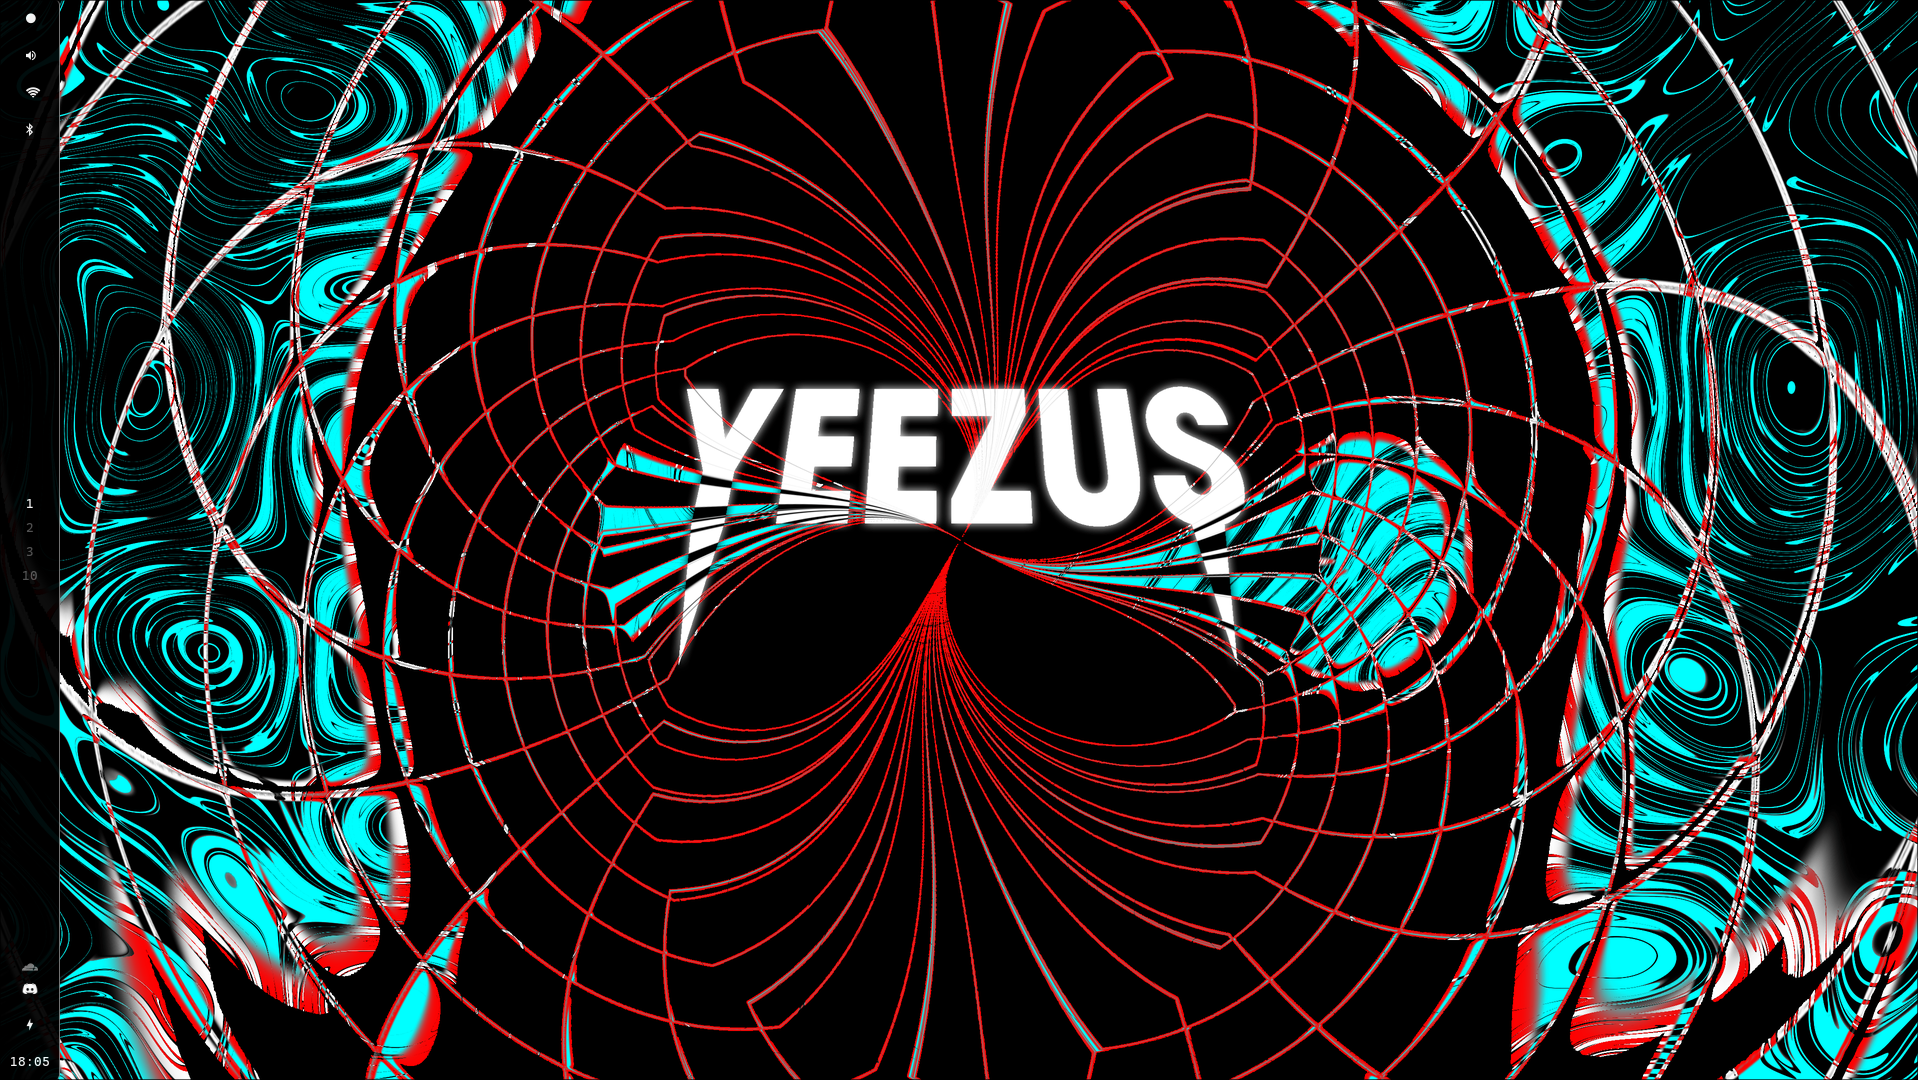
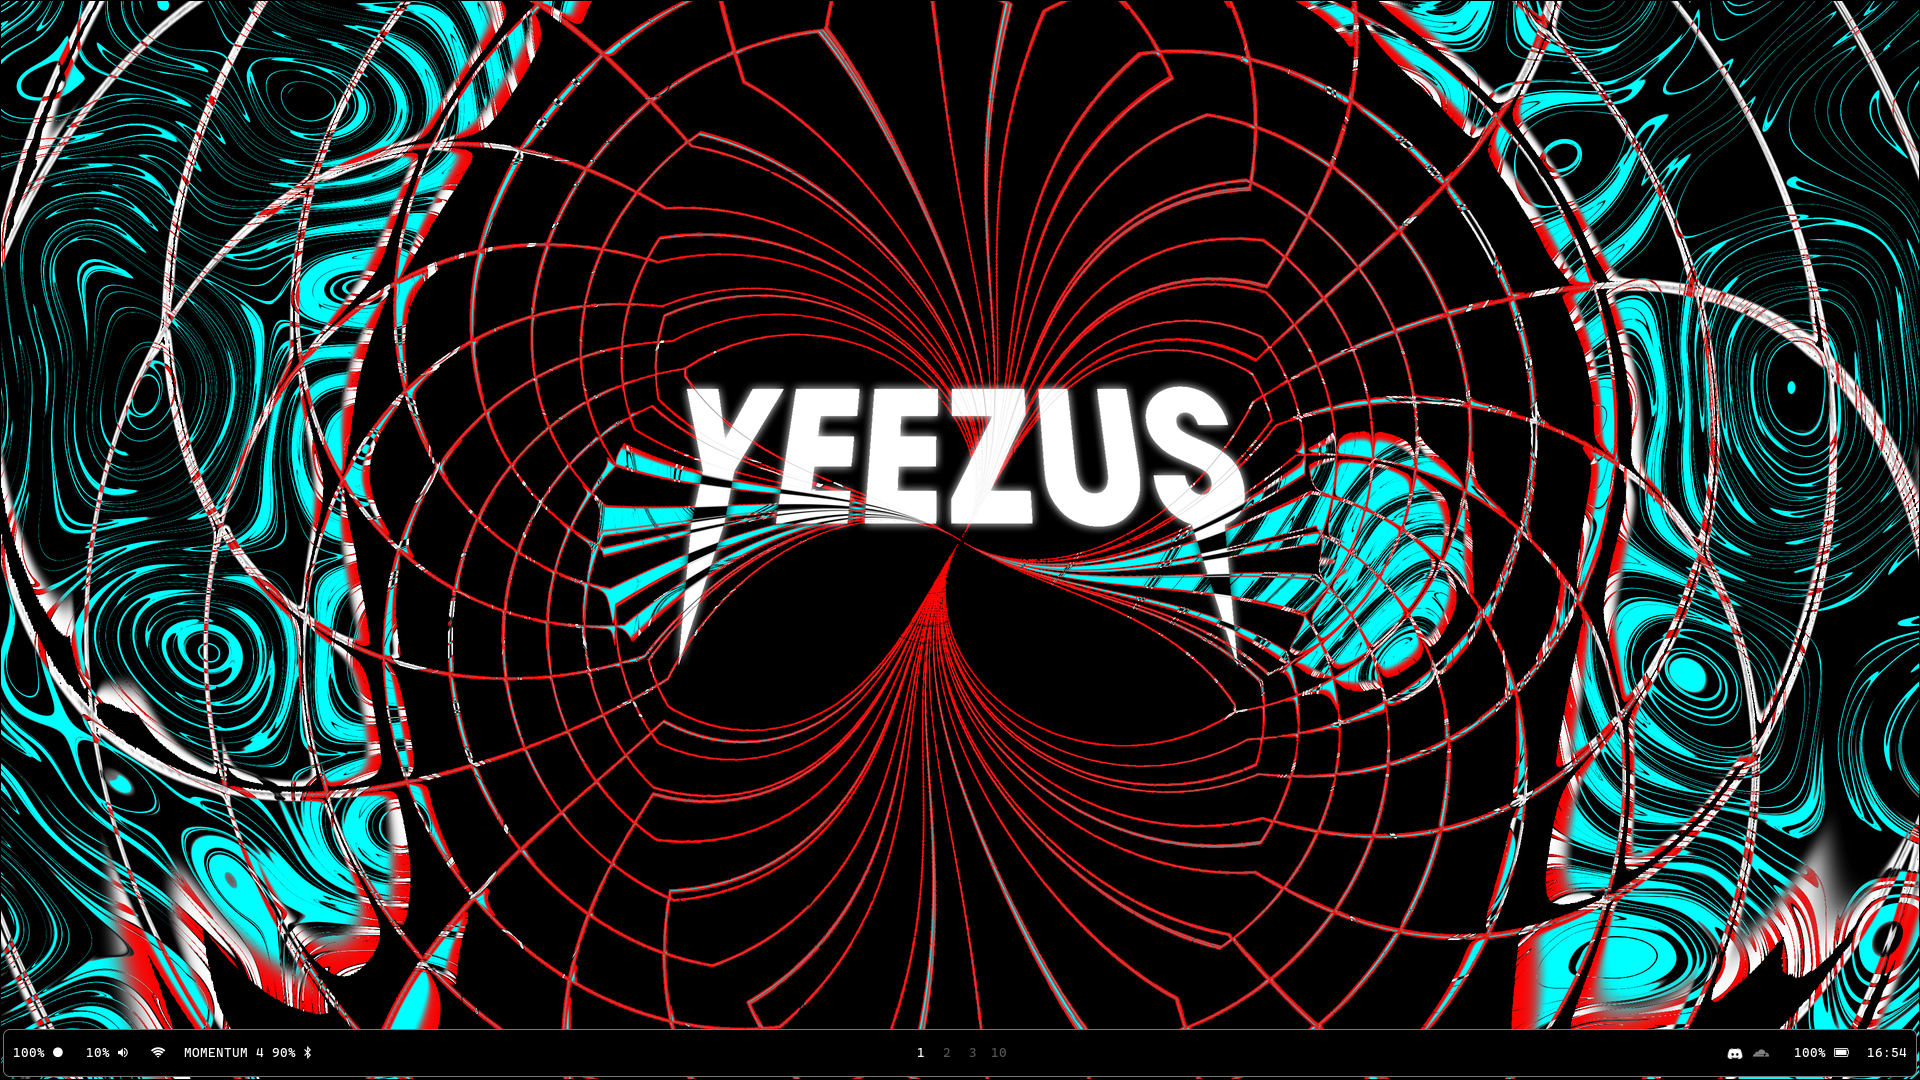
chore: Add bar at the bottom

diff --git a/.config/waybar/style.css b/.config/waybar/style.css
@@ -6,13 +6,12 @@
 
 window#waybar {
   background-color: #000;
-  color: #ffffff;
-  opacity: 0.95;
-  border-right: 1px solid #777;
+  border: 1px solid #777;
+  color: #fff;
   transition-property: all;
   transition-duration: 0.5s;
   transition-timing-function: ease-in-out;
-  border-radius: 0 5px 5px 0;
+  border-radius: 7px;
 }
 
 window#waybar.hidden {
@@ -25,12 +24,12 @@ button {
 
 #workspaces {
   transition: all 0.5s ease-in-out;
-  padding: 0px 0px;
+  padding: 12px 0px;
   border-radius: 5px;
 }
 
 #workspaces button {
-  padding: 0px 0px;
+  padding: 0px 5px;
   color: #555;
   background-color: transparent;
   border-radius: 7px;
